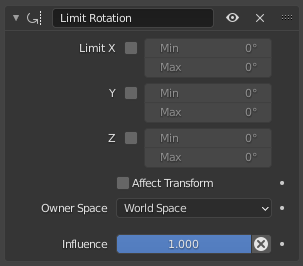
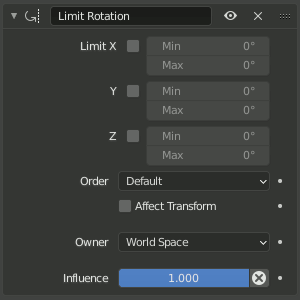
Document changes in the Limit Rotation constraint after D9626.
Also rewrite the messy explanation of Affect Transform.

git-svn-id: https://svn.blender.org/svnroot/bf-manual/trunk@8122 c4de1f47-6596-e411-a384-0024e86c2797

diff --git a/blender_docs/manual/animation/constraints/transform/limit_rotation.rst b/blender_docs/manual/animation/constraints/transform/limit_rotation.rst
@@ -49,15 +49,18 @@ Limit X, Y, Z
       - If a min value is higher than its corresponding max value,
         the constraint behaves as if it had the same value as the max one.
       - Unlike the :doc:`Limit Location constraint </animation/constraints/transform/limit_location>`,
-        you cannot enable separately lower or upper limits...
+        you cannot separately enable lower or upper limits.
+      - The constraint can be used to simply remove shear from the owner transformation
+        by leaving all limits disabled.
+
+Order
+   Allows specifying which :term:`Euler` order to use when applying the limits.
+   Defaults to the order of the owner.
 
 Affect Transform
-   As pointed out before by default, even though visually constrained,
-   the owner can still have rotations out of bounds (as shown by the *Transform* panel).
-   When you enable this checkbox, this is no more possible --
-   the owner transform properties are also limited by the constraint.
-   However, note that, the constraint does not directly modify the rotation values:
-   you have to rotate one way or the other its owner, for this to take effect...
+   The constraint is taken into account when the object is manually rotated using
+   transformation tools in the blender UI. This prevents assigning transformation
+   property values (as shown in the *Transform* panel) that exceed the specified limits.
 
 Owner
    This constraint allows you to choose in which space evaluate its owner's transform properties.
